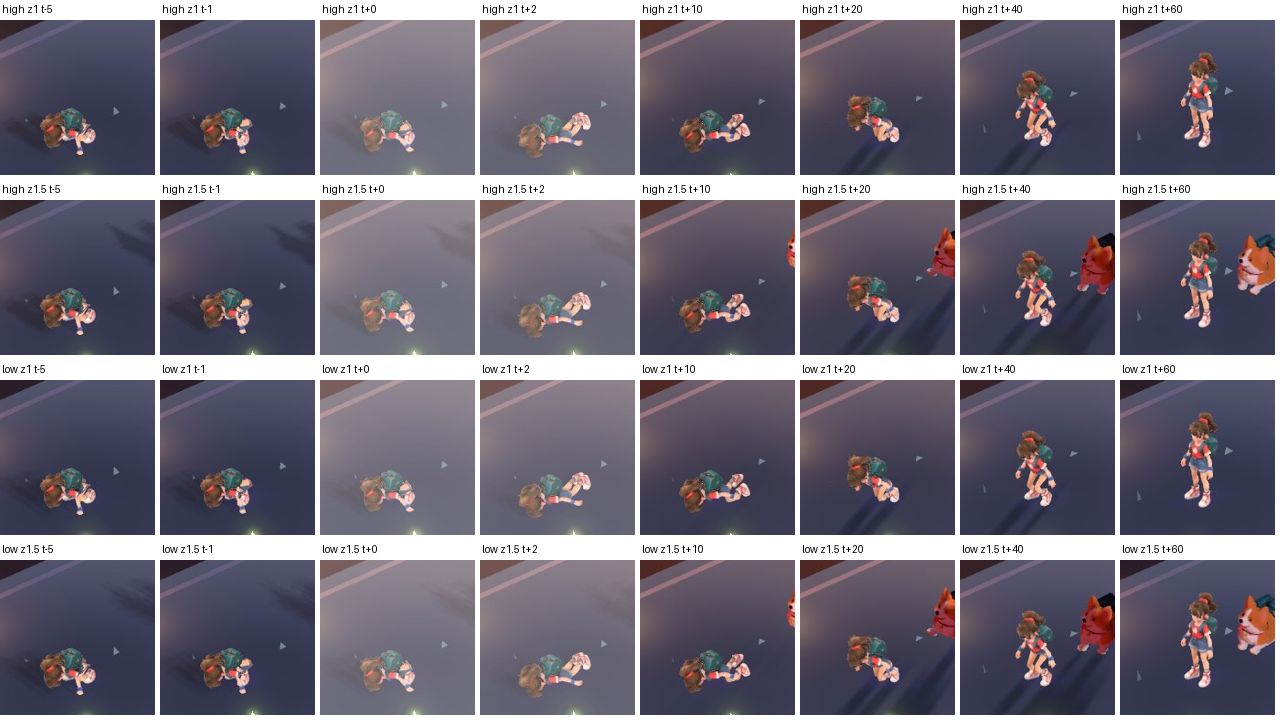
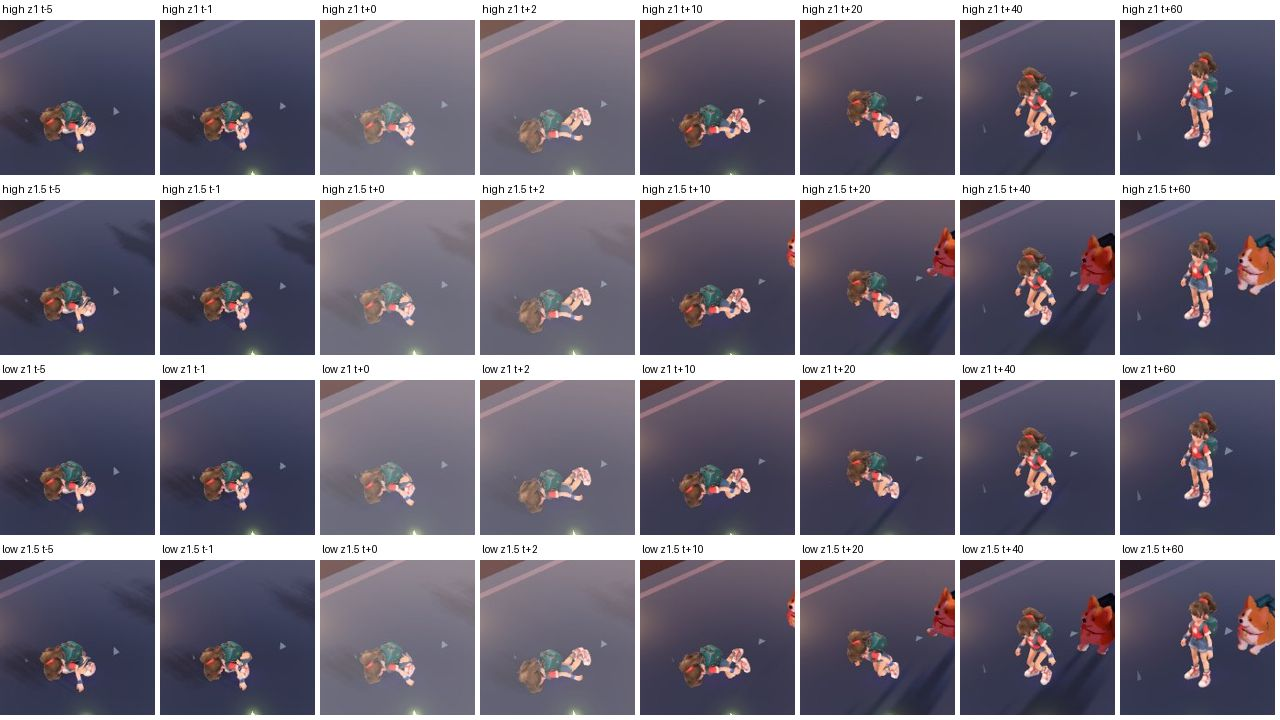
Ground L9 crawl and rise on visible mesh

diff --git a/src/render/characters/KeyframeAnimator.ts b/src/render/characters/KeyframeAnimator.ts
@@ -73,7 +73,7 @@ export class KeyframeAnimator {
     for (const p of this.restPose) { p.node.position.copy(p.position); p.node.quaternion.copy(p.rotation); }
     this.ground?.reset();
   }
-  constructor(private readonly rig: CharacterRig, clipSource?: typeof skinClips) {
+  constructor(private readonly rig: CharacterRig, clipSource?: typeof skinClips, private readonly model: Object3D = rig.root) {
     this.skin = clipSource === skinClips;
     this.bones = this.skin ? courierBones(rig.root) : undefined;
     for (const node of new Set([...Object.values(rig), ...this.bones ? chainNodes(this.bones) : []])) this.restPose.push({ node, position: node.position.clone(), rotation: node.quaternion.clone() });
@@ -232,7 +232,8 @@ export class KeyframeAnimator {
     if (proneGetUp) this.ground?.groundProneRise();
     else if (!ride && strike && /kick|knee|spinning/.test(strike)) this.ground?.groundPose();
     for (const node of Object.values(this.rig)) node.quaternion.normalize();
-    if (pose.animation === 'die' || pose.animation === 'knockdown') settleGroundPose(this.rig.root);
+    if (this.skin && (pose.scriptedClip === 'crawl' || proneGetUp)) settleGroundPose(this.model);
+    else if (pose.animation === 'die' || pose.animation === 'knockdown') settleGroundPose(this.rig.root);
     // Skeleton v2 swings the bag with a 2-DOF pendulum after the ride contacts (CourierLiving).
     if (!this.bones) {
       const target = this.rig.torso.rotation.z * -.3;

diff --git a/src/render/characters/CharacterView.ts b/src/render/characters/CharacterView.ts
@@ -219,7 +219,7 @@ export class CharacterView extends Group {
         } });
         character.rig.head.add(headlamp);
       }
-      const animator = new KeyframeAnimator(character.rig, pilot ? skinClips : undefined);
+      const animator = new KeyframeAnimator(character.rig, pilot ? skinClips : undefined, character.model);
       const living = animator.bones ? new CourierLiving(character.rig, animator.bones, variant === 'female' ? 1 : 2) : undefined;
       this.characters.set(variant, { ...character, assetId: isSkin ? `${id}.skin` : id, animator, living, gear, tierGear, body, headlamp, cure: canister, aim: new GunAim(character.rig.armR, character.rig.foreArmR, character.rig.handR, character.rig.torso, [character.rig.armL, character.rig.foreArmL, character.rig.handL], [character.rig.weaponSocketR, character.rig.weaponSocketL], character.rig.head), sockets: { LEFT: { socket: character.rig.weaponSocketL, hand: character.rig.handL }, RIGHT: { socket: character.rig.weaponSocketR, hand: character.rig.handR } } }); this.add(character.model);
       // Before the first compile (warm-up), so the foreground slice never rebuilds her programs during play (Q-208).

diff --git a/docs/reports/s227-l9polish/README.md b/docs/reports/s227-l9polish/README.md
@@ -32,3 +32,5 @@ The curve screenshot is a single near-bend frame, not a complete visual sweep. T
 A leg-only IK correction now raises penetrating shoes while retaining the authored pelvis path and knee direction. Four fresh fixture captures cover every tick from ten ticks before the switch through 88 ticks after it, HIGH then LOW at zoom 1 and 1.5. The lowest reported foot joint during the rise is y = 0.086 m against the y = 0 floor (previously -0.128 m). The frame sheet shows selected frames. The native playthrough and direct shoe surface contact remain to be checked; joint height alone cannot prove sole clearance.
 
 A follow-up HIGH fixture sampled deformed visible skin vertices against the flat y = 0 road. The joint-only correction is insufficient: at the switch a hand vertex reaches y = -0.108 m, and at rise tick 9 a left toe vertex reaches y = -0.064 m with knee vertices below the plane. The preceding crawl also has hand vertices below ground. The fixture did not establish a clean ground contact; the get-up remains open and the native run is still outstanding.
+
+The current candidate also applies mesh-based grounding during the crawl and prone rise. In four fixture runs (HIGH then LOW, zoom 1 and 1.5), the visible skinned body bounding box stayed at or above y = 0.0199 m for 100 consecutive ticks spanning the switch and rise, against a flat y = 0 plane. The updated sheet samples those captures. This correction evaluated the courier at roughly 2 ms per frame in the HIGH fixture; its full gameplay performance and native playthrough remain unverified.
